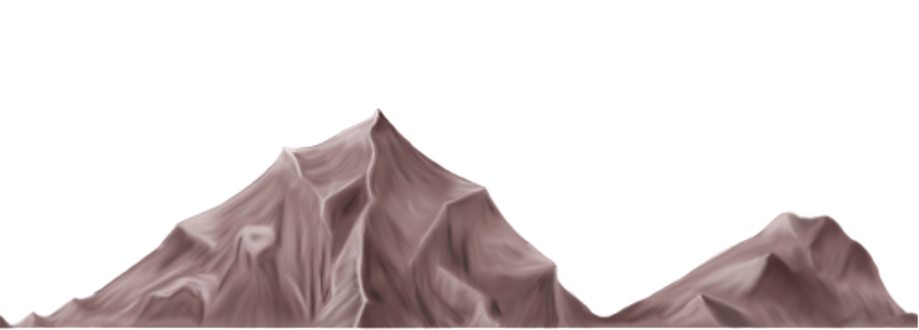
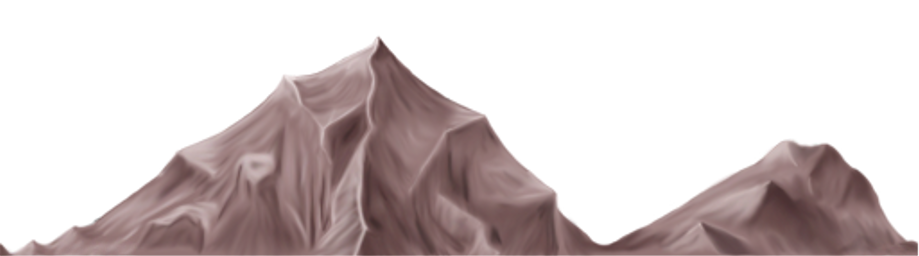
Map Editor Mostly Working

diff --git a/branches/dev/GameMaker/src/edu/elon/honors/price/maker/MapActivityBase.java b/branches/dev/GameMaker/src/edu/elon/honors/price/maker/MapActivityBase.java
@@ -221,7 +221,7 @@ public abstract class MapActivityBase extends SaveableActivity {
 			if (grid == null) createGrid();
 
 			synchronized (game) {
-				c.drawColor(Color.DKGRAY);
+				c.drawColor(Color.BLACK);
 				drawBackground(c);
 				drawContent(c);
 				drawGrid(c);
@@ -246,17 +246,25 @@ public abstract class MapActivityBase extends SaveableActivity {
 			c.drawRect(offX,  offY, offX + mapWidth, offY + mapHeight, paint);
 			c.drawRect(0, 0, width, (int)offY + mapHeight, paint);
 			
-			//TODO: Make parallax scroll base at the right point
 			float paralax = 0.7f;
 			int pOffX = (int)(paralax * offX);
-			int pOffY = (int)(paralax * offY);//(offY - (height - mapHeight) / 2));
+			float mOffY = offY + mapHeight - height;
+			int pOffY = (int)(paralax * mOffY);
+			if (offY > 0) pOffY = (mapHeight - height) / 2;
 
+			Rect screenRect = new Rect(0, 0, width, height);
+			Rect bmpRect = new Rect();
+			
 			paint.reset();
 			paint.setAlpha(getBackgroundTransparency());
 			Bitmap foreground = Data.loadForeground(map.groundImageName);
-			int fgHeight = mapHeight + (int)offY - map.groundY;
+			int fgHeight = height - map.groundY;
 			for (int i = 0; i < mapWidth; i += foreground.getWidth()) {
-				c.drawBitmap(foreground, i + pOffX, fgHeight + pOffY, paint);
+				int x = i + pOffX, y = fgHeight + pOffY;
+				bmpRect.set(x, y, x + foreground.getWidth(), 
+						y + foreground.getHeight());
+				//if (bmpRect.intersect(screenRect))
+					c.drawBitmap(foreground, bmpRect.left, bmpRect.top, paint);
 			}
 			Bitmap background = Data.loadBackground(map.skyImageName);
 			int bgHeight = fgHeight - background.getHeight();
@@ -265,7 +273,7 @@ public abstract class MapActivityBase extends SaveableActivity {
 					c.drawBitmap(background, i + pOffX, j + pOffY, paint);
 				}
 			}
-			int mgHeight = bgHeight + 80;
+			int mgHeight = fgHeight - foreground.getHeight();
 			for (int j = 0; j < map.midGrounds.size(); j++) {
 				Bitmap midground = Data.loadMidground(map.midGrounds.get(j));
 				for (int i = 0; i < mapWidth; i += midground.getWidth()) {

diff --git a/branches/dev/GameData/src/edu/elon/honors/price/data/Upgrader.java b/branches/dev/GameData/src/edu/elon/honors/price/data/Upgrader.java
@@ -10,7 +10,9 @@ public class Upgrader {
 	public static void upgrade(PlatformGame game) {
 		int version = game._VERSION_;
 		game.tilesets[0].bitmapName = "StickTiles.png";
-		game.hero.imageName = "hero.png";
+		game.maps.get(0).midGrounds.set(0, "whiteclouds-big.png");
+		game.maps.get(0).midGrounds.set(1, "mountain-big.png");
+		game.maps.get(0).midGrounds.set(2, "trees-big.png");
 	}
 	
 	private static void upgraded(PlatformGame game) {
